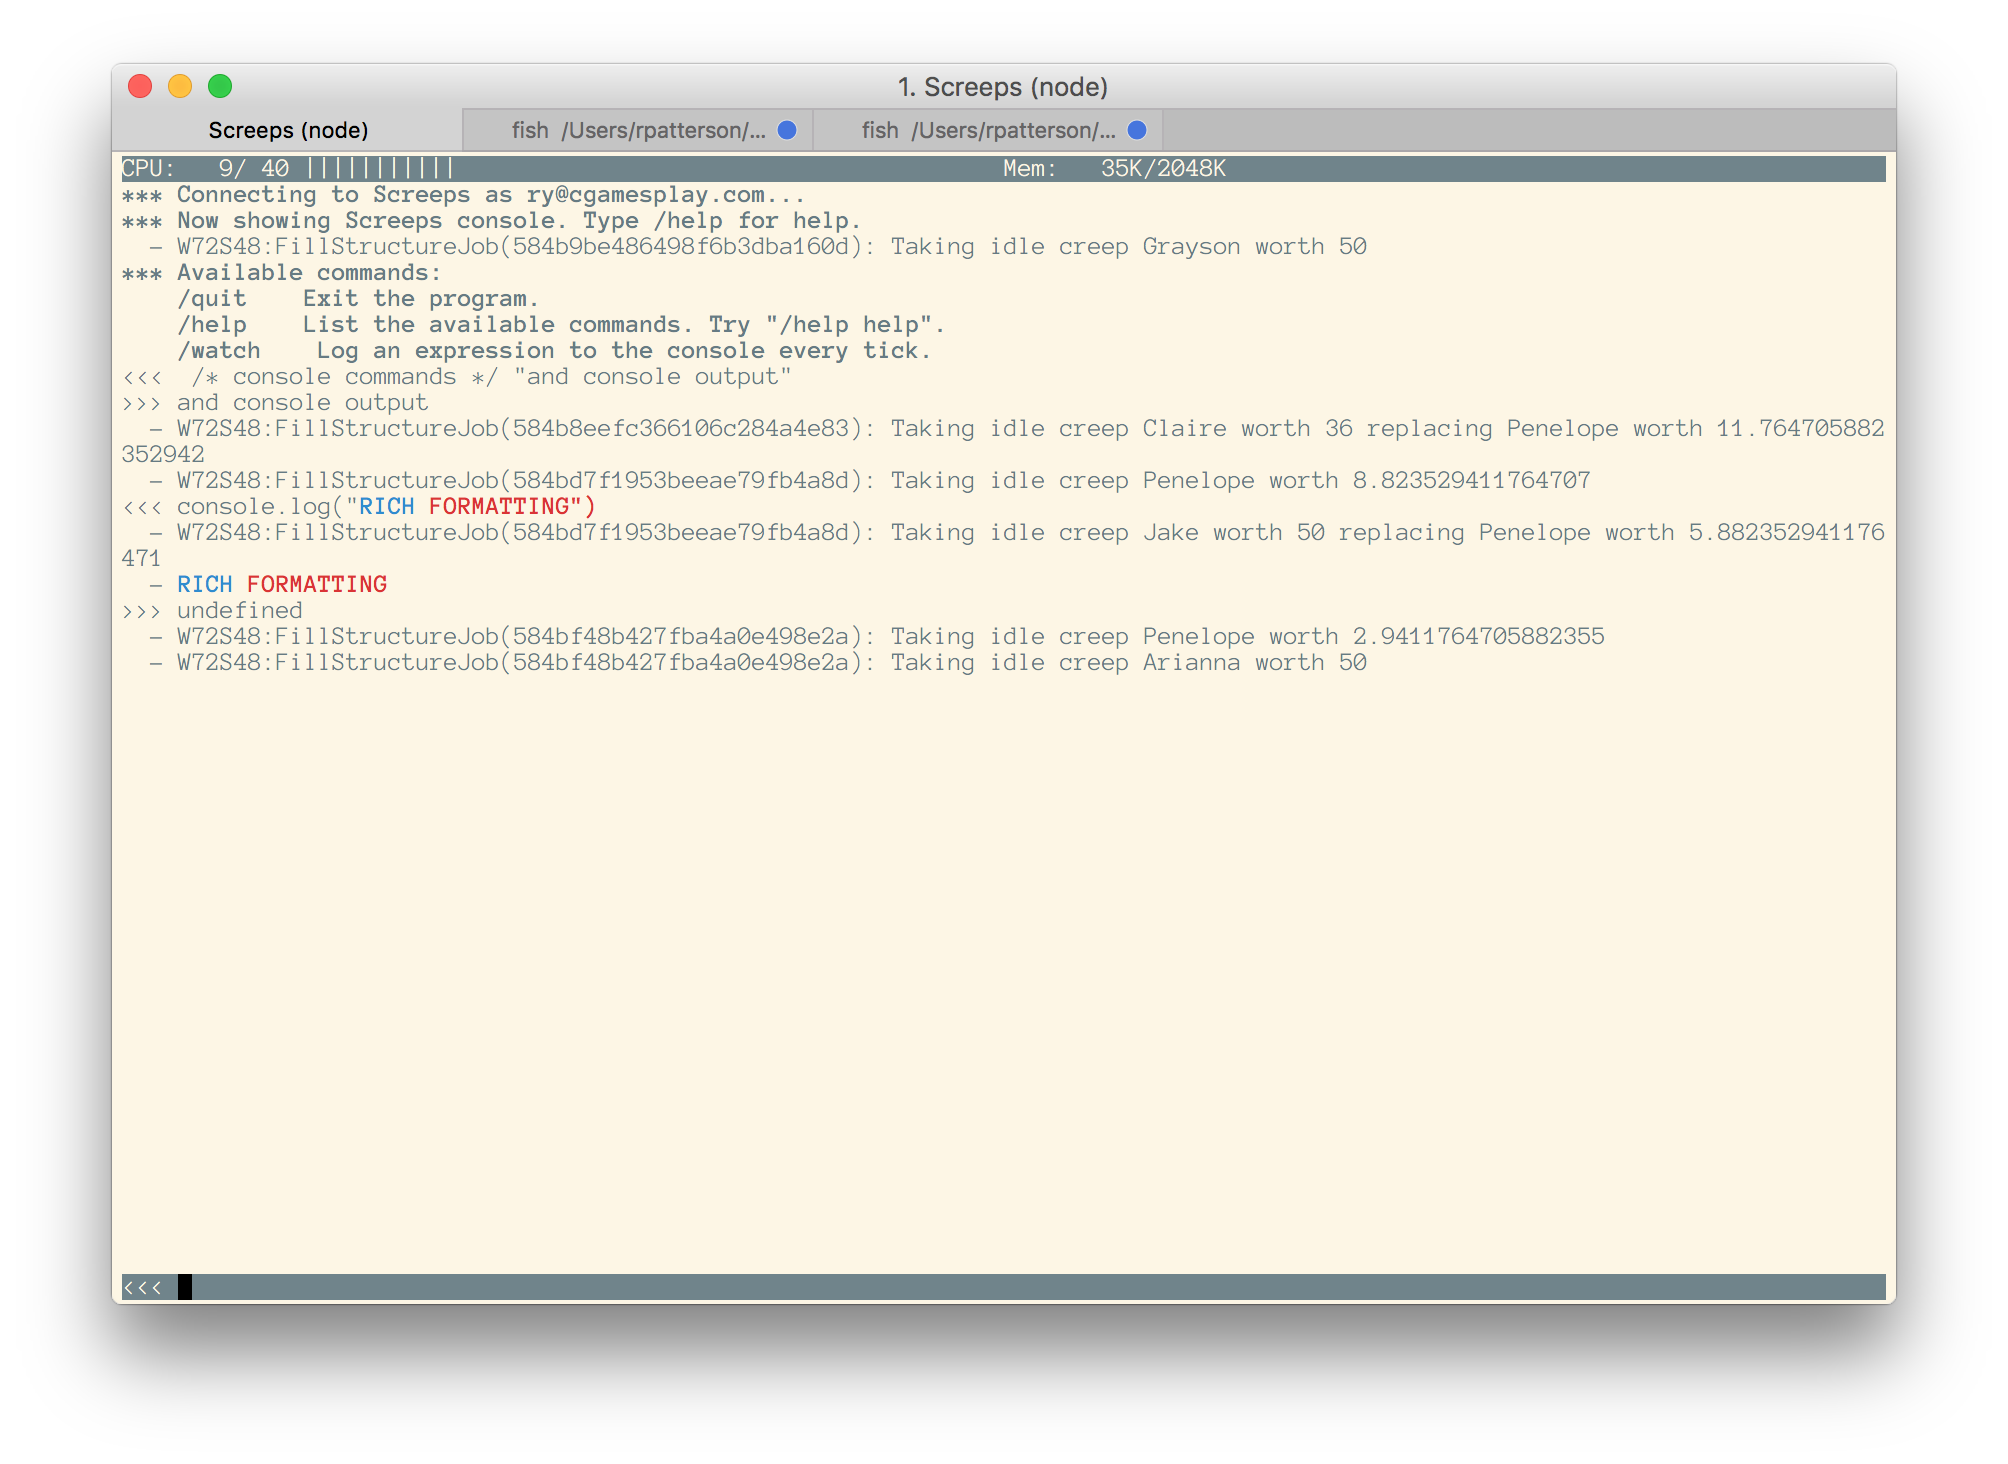
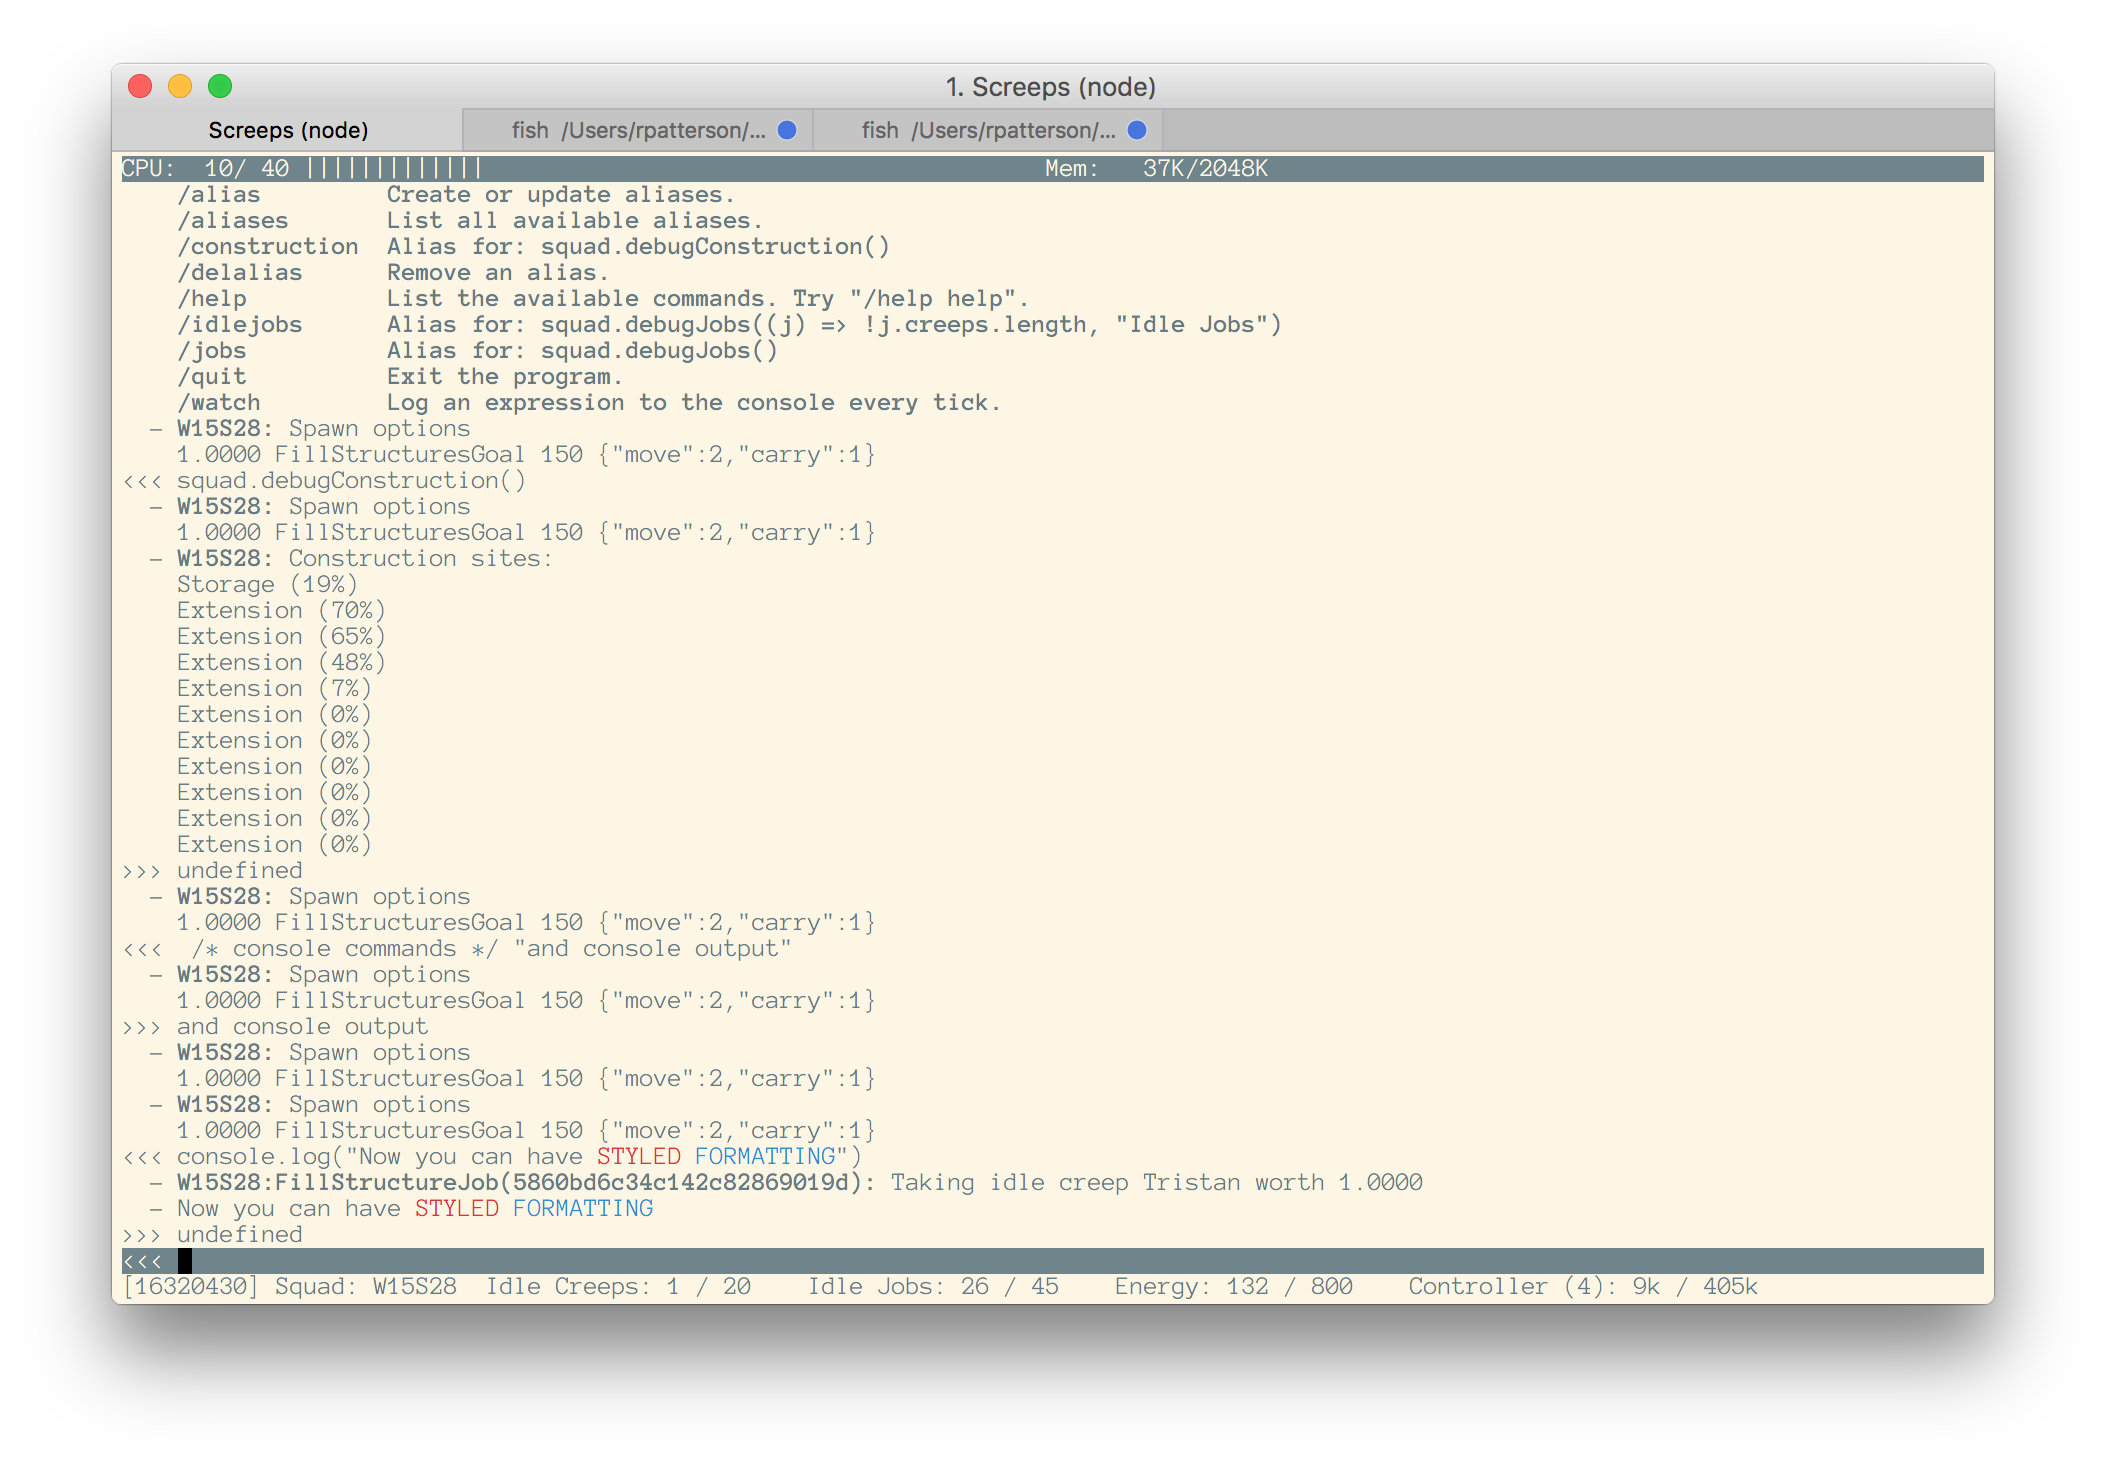
Update the screenshot and readme

Changed region(s): [[0.0309, 0.0307, 0.9572, 0.8914], [0.247, 0.0307, 0.6175, 0.123], [0.494, 0.1537, 0.6793, 0.1844]]

diff --git a/README.md b/README.md
@@ -62,7 +62,7 @@ exports.loop = function() {
 };
 ```
 
-To use the plugin, just type `/watch EXPR`, where EXPR is any expression that you want to log. For example, `/watch Game.time` will log the game time every tick.
+There are two ways to watch expressions. You can log it to the console normally by using `/watch console EXPR`. You can also log to a status bar at the bottom of the screen using `/watch status EXPR`. For example, `/watch status _.keys(Game.creeps).length` will keep a count of the number of live creeps at the bottom of the terminal.
 
 ## Contributing
 
